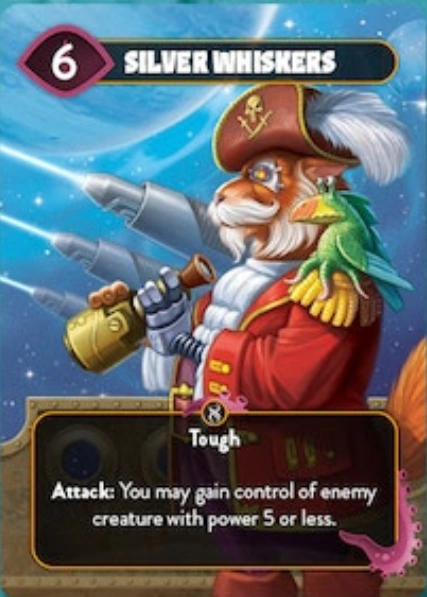
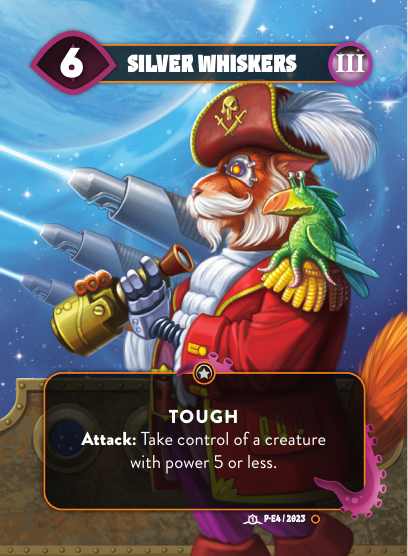
Added remainder of promo cards.

diff --git a/script.js b/script.js
@@ -2341,6 +2341,28 @@ const creatures = [
         pack: "Beyond Evolution"
     },
     {
+        name: "Alien Brain",
+        power: 3,
+        ability: `Poisonous - The opponent cannot put cards into their hand`,
+        double: false,
+        keywords: {
+            poisonous: true,
+            frenzy: false,
+            tough: false,
+            sneaky: false,
+            hunter: false
+        },
+        triggers: {
+            play: false,
+            attack: false,
+            defeated: false,
+            action: false,
+            discard: false
+        },
+        evolution: false,
+        pack: "Promo"
+    },
+    {
         name: "Blessed Axolotl Healer",
         power: 6,
         ability: `Poisonous - In Discard Pile: Allied creatures have "Attack: Gain 1 life"`,
@@ -2448,6 +2470,28 @@ const creatures = [
         pack: "Promo"
     },
     {
+        name: "Future Eric",
+        power: 3,
+        ability: "Sneaky - Play: Put 2 random cards from outside the game on the bottom of your draw pile without looking at them",
+        double: false,
+        keywords: {
+            poisonous: false,
+            frenzy: false,
+            tough: false,
+            sneaky: true,
+            hunter: false
+        },
+        triggers: {
+            play: true,
+            attack: false,
+            defeated: false,
+            action: false,
+            discard: false
+        },
+        evolution: false,
+        pack: "Promo"
+    },
+    {
         name: "Ghost Hand",
         power: 2,
         ability: "Sneaky - Play: Boost 1 card to a creature. Boosted creatures cannot block.",
@@ -2532,6 +2576,50 @@ const creatures = [
         pack: "Promo"
     },
     {
+        name: "One-Eye Felix",
+        power: 7,
+        ability: "Hunter - At the end of turn, if this defeated an enemy creature this turn, evolve to Silver Whiskers",
+        double: false,
+        keywords: {
+            poisonous: false,
+            frenzy: false,
+            tough: false,
+            sneaky: false,
+            hunter: true
+        },
+        triggers: {
+            play: false,
+            attack: false,
+            defeated: false,
+            action: false
+        },
+        evolution: true,
+        evolved: true,
+        pack: "Promo"
+    },
+    {
+        name: "Silver Whiskers",
+        power: 6,
+        ability: "Tough - Attack: Take control of a creature with power 5 or less",
+        double: false,
+        keywords: {
+            poisonous: false,
+            frenzy: false,
+            tough: true,
+            sneaky: false,
+            hunter: false
+        },
+        triggers: {
+            play: false,
+            attack: true,
+            defeated: false,
+            action: false
+        },
+        evolution: true,
+        evolved: true,
+        pack: "Promo"
+    },
+    {
         name: "Macaw Dagon",
         power: 8,
         ability: "Attack: Swap hands with the opponent",
@@ -2571,28 +2659,6 @@ const creatures = [
             action: false
         },
         evolution: false,
-        pack: "Promo"
-    },
-    {
-        name: "One-Eye Felix",
-        power: 7,
-        ability: "Hunter - At the end of turn, if this defeated an enemy creature this turn, evolve to Silver Whiskers",
-        double: false,
-        keywords: {
-            poisonous: false,
-            frenzy: false,
-            tough: false,
-            sneaky: false,
-            hunter: true
-        },
-        triggers: {
-            play: false,
-            attack: false,
-            defeated: false,
-            action: false
-        },
-        evolution: true,
-        evolved: true,
         pack: "Promo"
     },
     {
@@ -2637,28 +2703,6 @@ const creatures = [
         evolution: false,
         pack: "Promo"
     },
-    // {
-    //     name: "Silver Whiskers",
-    //     power: 6,
-    //     ability: "You may gain control of an enemy creature with power 5 or less",
-    //     double: false,
-    //     keywords: {
-    //         poisonous: false,
-    //         frenzy: false,
-    //         tough: true,
-    //         sneaky: false,
-    //         hunter: false
-    //     },
-    //     triggers: {
-    //         play: false,
-    //         attack: true,
-    //         defeated: false,
-    //         action: false
-    //     },
-    //     evolution: true,
-    //     evolved: true,
-    //     pack: "Promo"
-    // },
     {
         name: "Slugapult",
         power: 5,
@@ -2723,6 +2767,27 @@ const creatures = [
         pack: "Promo"
     },
     {
+        name: "Suspicious Gift",
+        power: 1,
+        ability: "Play: The opponent takes control of this. Defeated: You lose 2 life",
+        double: false,
+        keywords: {
+            poisonous: false,
+            frenzy: false,
+            tough: false,
+            sneaky: false,
+            hunter: false
+        },
+        triggers: {
+            play: true,
+            attack: true,
+            defeated: true,
+            action: false
+        },
+        evolution: false,
+        pack: "Promo"
+    },
+    {
         name: "Tuckbox Mimic",
         power: 2,
         ability: "Action: Boost 1 card to this. Evolve to Deckbox Mimic",
@@ -2766,6 +2831,28 @@ const creatures = [
         pack: "Promo"
     },
     {
+        name: "Big Box Mimic",
+        power: 6,
+        ability: "Frenzy - Defeated: Play any number of boost cards from this without activating their Play effects",
+        double: false,
+        keywords: {
+            poisonous: false,
+            frenzy: true,
+            tough: false,
+            sneaky: false,
+            hunter: false
+        },
+        triggers: {
+            play: false,
+            attack: false,
+            defeated: true,
+            action: false
+        },
+        evolution: true,
+        evolved: true,
+        pack: "Promo"
+    },
+    {
         name: "Unigon",
         power: 9,
         ability: "Attack: If your hand is empty, you win the game",
@@ -2785,28 +2872,28 @@ const creatures = [
         },
         evolution: false,
         pack: "Promo"
+    },
+    {
+        name: "Watts Dog",
+        power: 5,
+        ability: "Frenzy - Cannot be blocked by creatures with 1 or more keywords",
+        double: false,
+        keywords: {
+            poisonous: false,
+            frenzy: true,
+            tough: false,
+            sneaky: false,
+            hunter: false
+        },
+        triggers: {
+            play: false,
+            attack: false,
+            defeated: false,
+            action: false
+        },
+        evolution: false,
+        pack: "Promo"
     }
-    // {
-    //     name: "Watts Dog",
-    //     power: 5,
-    //     ability: "Cannot be blocked by creatures with 1 or more keywords",
-    //     double: false,
-    //     keywords: {
-    //         poisonous: false,
-    //         frenzy: true,
-    //         tough: false,
-    //         sneaky: false,
-    //         hunter: false
-    //     },
-    //     triggers: {
-    //         play: false,
-    //         attack: false,
-    //         defeated: false,
-    //         action: false
-    //     },
-    //     evolution: false,
-    //     pack: "Promo"
-    // }
 ]
 
 updateCriteria();
